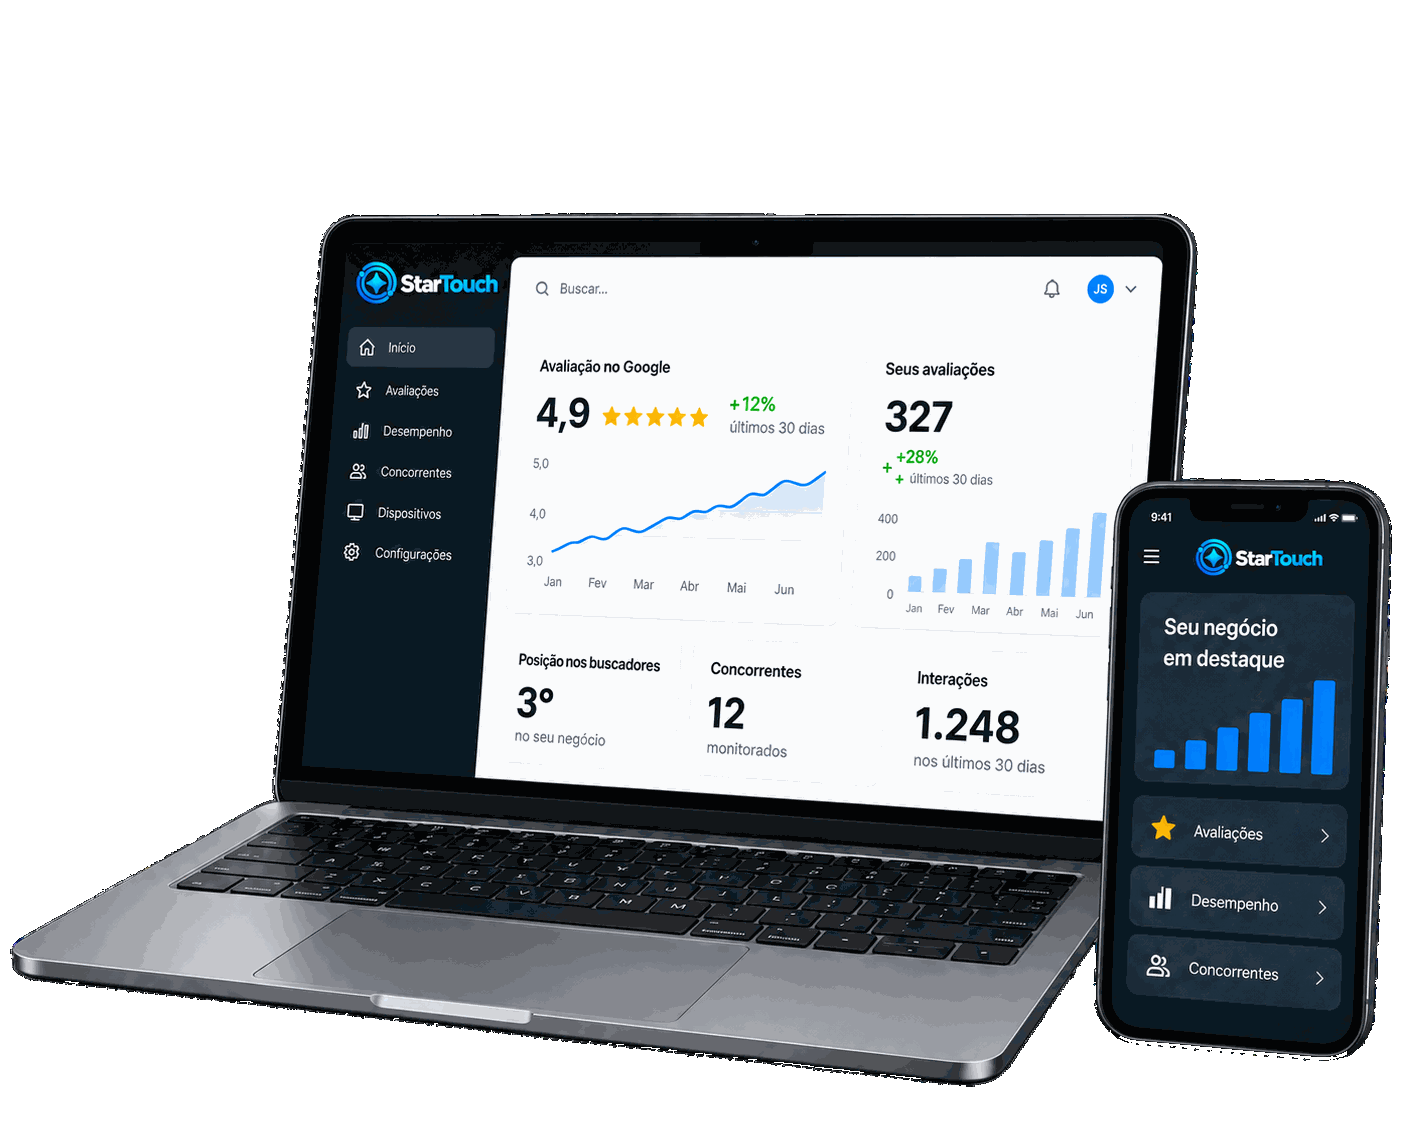
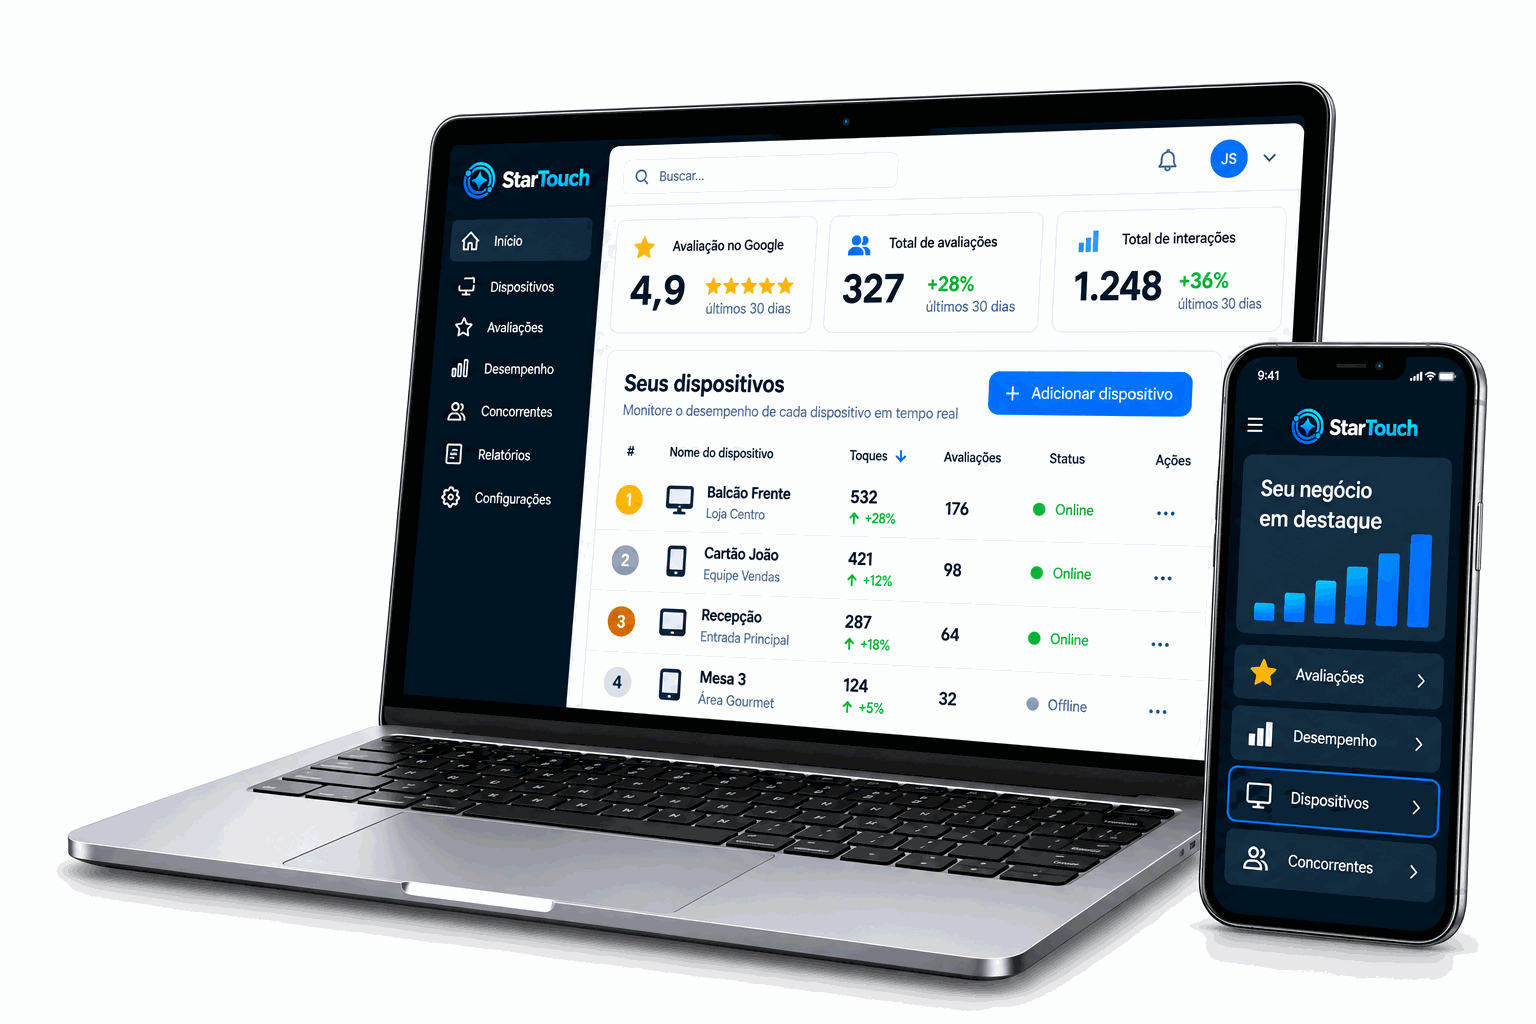
feat(revenda): margem sem percentual, e painel novo mostrando os dispositivos
DUAS COISAS, as duas pedidas pelo Ricardo.

1. O PERCENTUAL DA MARGEM SAI DA PAGINA.
   "ate 59%" aparecia em tres lugares: a faixa de numeros, o item "Para voce"
   e uma coluna inteira da tabela de precos (54% / 59% / 54%). Tirar so um
   deixaria o numero na pagina e a mudanca seria cosmetica — saiu dos tres.

   No lugar, "Margem saudavel". O cartao da faixa ganhou corpo menor porque e
   o unico com TEXTO onde os outros tem numero curto (R\$ 800, 10 dias, R\$ 0)
   e quebraria no meio da palavra.

   A coluna "Desconto" da tabela saiu inteira: o preco de varejo riscado ao
   lado do preco de revenda ja mostra a diferenca, e a porcentagem era a mesma
   informacao dita de novo — justamente o numero que nao deve estar la. A
   linha da pulseira ficou com uma celula sobrando e foi ajustada junto;
   conferi que cabecalho e as quatro linhas terminaram com 3 colunas.

   O texto do item tambem parou de citar os valores ("R\$ 79,90 vira R\$
   32,90"), porque dali qualquer um refaz a conta do percentual. Agora fala do
   que importa pro revendedor: preco fixo por unidade, igual no primeiro
   pedido e no decimo, e aponta pra tabela.

2. PAINEL NOVO. Terceira versao, e a melhor: logo certo, sem o erro de
   "Seus avaliacoes", fundo BRANCO (as duas anteriores vinham em preto e
   exigiram recorte) e — o que mais vale — mostra a LISTA DE DISPOSITIVOS com
   os toques de cada ponto de contato. E exatamente o argumento que a pagina
[…]

diff --git a/public/revenda.html b/public/revenda.html
@@ -92,6 +92,9 @@
   .stat { padding: 25px; border-right: 1px solid var(--line); }
   .stat:last-child { border-right: 0; }
   .stat strong { display: block; font-size: 28px; color: var(--navy); letter-spacing: -1px; }
+  /* Este cartao da faixa e o unico com TEXTO no lugar de numero. No corpo
+     dos outros ele quebraria no meio da palavra. */
+  .stat strong.statTexto { font-size: 21px; letter-spacing: -0.5px; line-height: 1.2; }
   .stat small { color: var(--muted); font-size: 13px; }
 
   section { padding: 84px 0; }
@@ -307,7 +310,7 @@
 <div class="stats">
   <div class="wrap">
     <div class="statGrid">
-      <div class="stat"><strong>até 59%</strong><small>de desconto sobre o varejo</small></div>
+      <div class="stat"><strong class="statTexto">Margem saudável</strong><small>em cada unidade revendida</small></div>
       <div class="stat"><strong>R$ 800</strong><small>pedido mínimo, mais frete</small></div>
       <div class="stat"><strong>10 dias</strong><small>úteis de produção</small></div>
       <div class="stat"><strong>R$ 0</strong><small>de mensalidade obrigatória ao cliente</small></div>
@@ -324,8 +327,8 @@
     </div>
 
     <figure class="painelShot">
-      <img src="/painel-notebook.png" width="1402" height="1122" loading="lazy"
-           alt="O painel StarTouch aberto num notebook e num celular, mostrando nota do Google, total de avaliações, posição nas buscas, concorrentes monitorados e interações"/>
+      <img src="/painel-notebook.png" width="1536" height="1024" loading="lazy"
+           alt="O painel StarTouch aberto num notebook e num celular, mostrando a nota do Google, o total de avaliações e a lista de dispositivos com os toques de cada ponto de contato"/>
       <figcaption>Imagem ilustrativa do painel. Os números da tela são exemplo, não resultado prometido.</figcaption>
     </figure>
   </div>
@@ -346,8 +349,8 @@
         <div class="item">
           <span class="bolha">%</span>
           <div>
-            <b>Margem de até 59%</b>
-            <small>A mesma Placa de Balcão G que sai por R$ 79,90 no nosso site custa R$ 32,90 para você. Preço fixo por unidade, sem faixa por volume.</small>
+            <b>Margem saudável</b>
+            <small>Preço de atacado fixo por unidade, sem faixa por volume — o mesmo valor no primeiro pedido e no décimo. A diferença para o preço de varejo está na tabela, logo abaixo.</small>
           </div>
         </div>
 
@@ -416,30 +419,26 @@
 
     <div class="pricebox">
       <table>
-        <thead><tr><th>Produto</th><th>Varejo</th><th>Você paga</th><th>Desconto</th></tr></thead>
+        <thead><tr><th>Produto</th><th>Varejo</th><th>Você paga</th></tr></thead>
         <tbody>
           <tr>
             <td><div class="prodline"><img class="thumb" src="/rev-cartao.webp" width="440" height="440" loading="lazy" alt="Cartão de avaliação NFC StarTouch"/><div><div class="prod">Cartão de Avaliação NFC</div><div class="desc">Tamanho carteira, ideal para atendimento, equipe e balcão.</div></div></div></td>
             <td><span class="old">R$ 29,90</span></td>
             <td><span class="pay">R$ 13,90</span></td>
-            <td><span class="off">54% off</span></td>
           </tr>
           <tr>
             <td><div class="prodline"><img class="thumb" src="/rev-placa.webp" width="293" height="440" loading="lazy" alt="Placa de Balcão G StarTouch em PS preto"/><div><div class="prod">Placa de Balcão G</div><div class="desc">PS preto 2 mm, 21 × 15 cm.</div></div></div></td>
             <td><span class="old">R$ 79,90</span></td>
             <td><span class="pay">R$ 32,90</span></td>
-            <td><span class="off">59% off</span></td>
           </tr>
           <tr>
             <td><div class="prodline"><img class="thumb" src="/rev-placa-m.webp" width="293" height="440" loading="lazy" alt="Placa de Balcão M StarTouch em PS preto"/><div><div class="prod">Placa de Balcão M</div><div class="desc">PS preto 2 mm, 10 × 15 cm.</div></div></div></td>
             <td><span class="old">R$ 49,90</span></td>
             <td><span class="pay">R$ 22,90</span></td>
-            <td><span class="off">54% off</span></td>
           </tr>
           <tr>
             <td><div class="prod">Pulseira NFC</div><div class="desc">Temporariamente indisponível.</div></td>
             <td><em class="desc">Esgotada</em></td>
-            <td>—</td>
             <td>—</td>
           </tr>
         </tbody>
